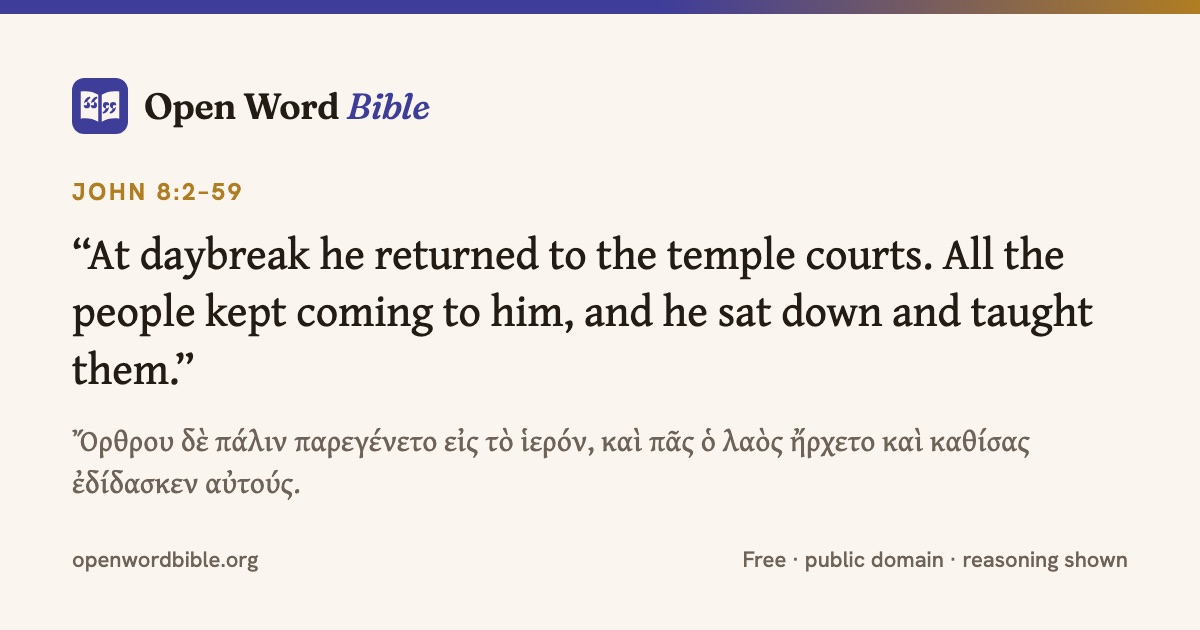
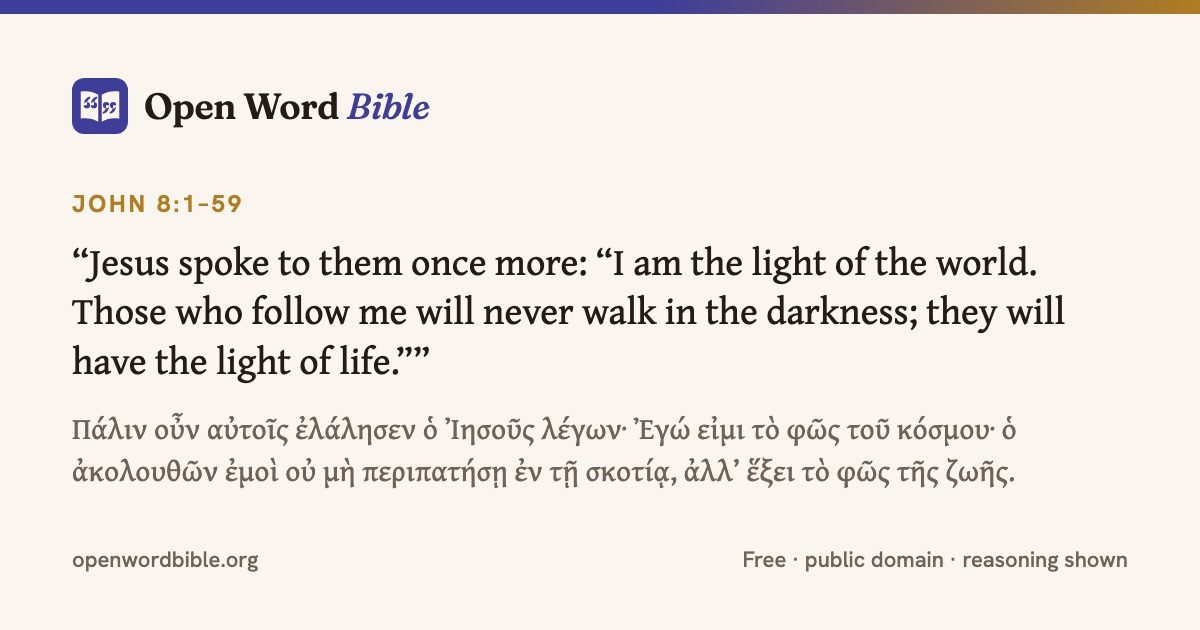
Show John 7:53-8:1 on both chapter pages; John 8 card quotes 8:12
The sentence 7:53-8:1 opens the bracketed, disputed passage about the
woman caught in adultery with "[" and the note on the manuscripts. The
build put it only on the John 7 page, so John 8 began at 8:2 with a
closing bracket and no opening one, verse 8:1 was on no John 8 page, and
John 7 and 8 were both counted incomplete ("John 7:1-53", "John 8:2-59").

A record now belongs to every chapter it touches. Chapter titles and
completeness count only the chapter's own verses, all_records counts the
sentence once, and the reader names a verse from another chapter "7:53"
or "8:1" (in the text, its link and its notes) so it never clashes with
John 8:53.

A chapter's share card, Read-page card and card alt text now quote its
first verse outside a disputed passage (DISPUTED in build_site.py), so
the John 8 card quotes 8:12. No translation text or review status changes.

Changed region(s): [[0.0617, 0.2714, 0.925, 0.6333], [0.0617, 0.6635, 0.8633, 0.7841]]

diff --git a/web/reader.js b/web/reader.js
@@ -26,18 +26,33 @@
   var SPAN = /\{\{([a-z_]+):([^{}]*)\}\}/g;
   var VERSE = /\\v (\d+) ?/;
 
-  function verseOf(id) { return id.split(".")[2]; }
-
-  // A record's verses as "12" or "12\u201313".
-  function verseRange(r) {
-    var first = verseOf(r.refs[0]), last = verseOf(r.refs[r.refs.length - 1]);
-    return first === last ? first : first + "\u2013" + last;
+  // A verse as this page names it: "12", or "7:53" for a verse of another
+  // chapter that a sentence runs into (John 7:53-8:1 is on both pages).
+  function verseOf(id) {
+    var p = id.split(".");
+    return Number(p[1]) === DATA.chapter ? p[2] : p[1] + ":" + p[2];
   }
 
-  // Split rendered text at verse markers: [[verse, text], ...].
+  function crossesChapter(r) {
+    return r.refs[0].split(".")[1] !== r.refs[r.refs.length - 1].split(".")[1];
+  }
+
+  // A record's verses as "12", "12\u201313" or "7:53\u20138:1".
+  function verseRange(r) {
+    var ends = [r.refs[0], r.refs[r.refs.length - 1]].map(function (id) {
+      return crossesChapter(r) ? id.split(".").slice(1).join(":") : verseOf(id);
+    });
+    return ends[0] === ends[1] ? ends[0] : ends[0] + "\u2013" + ends[1];
+  }
+
+  // Split rendered text at verse markers: [[verse, text], ...]. A marker
+  // gives only the verse number, so name it from the record's refs.
   function splitVerses(r, text) {
     var parts = text.split(VERSE), out = [[verseOf(r.refs[0]), parts[0].trim()]];
-    for (var i = 1; i < parts.length; i += 2) out.push([parts[i], parts[i + 1]]);
+    for (var i = 1; i < parts.length; i += 2) {
+      var id = r.refs.find(function (v) { return v.split(".")[2] === parts[i]; });
+      out.push([id ? verseOf(id) : parts[i], parts[i + 1]]);
+    }
     return out;
   }
 
@@ -231,7 +246,8 @@
     close.setAttribute("aria-label", t("close"));
     close.addEventListener("click", deselect);
     panel.appendChild(close);
-    panel.appendChild(el("h2", null, DATA.title.replace(/[\d:\u2013\s]+$/, "") + " " + DATA.chapter + ":" + verseRange(current)));
+    panel.appendChild(el("h2", null, DATA.title.replace(/[\d:\u2013\s]+$/, "") + " " +
+      (crossesChapter(current) ? "" : DATA.chapter + ":") + verseRange(current)));
 
     panel.appendChild(el("h3", null, t("greek")));
     // Interlinear: each Greek word over its gloss. Tapping one shows its
@@ -298,7 +314,7 @@
   // owns the breakpoint: the sheet is the panel when it is position: fixed.
   function narrow() { return getComputedStyle(panelEl).position === "fixed"; }
   function verseEl(v) { return document.querySelector('.verse[data-v="' + v + '"]'); }
-  function hashVerse() { var m = /^#v(\d+)$/.exec(location.hash); return m && m[1]; }
+  function hashVerse() { var m = /^#v(\d+(?::\d+)?)$/.exec(location.hash); return m && m[1]; }
 
   function sheet(open) {
     panelEl.classList.toggle("open", open);

diff --git a/scripts/build_site.py b/scripts/build_site.py
@@ -443,15 +443,16 @@ def curl_record(r):
 
 
 def load_chapter(book, chapter):
+    """A chapter's records, and the Greek words of every verse they cover. A
+    sentence that runs into the next chapter (John 7:53-8:1) belongs to both:
+    without it the next chapter would lose a verse, and John 8 would open
+    without the bracket and the note that begin the disputed passage."""
     records = []
     for path in sorted((ROOT / "content" / book).glob("*.json")):
         for r in json.loads(path.read_text(encoding="utf-8"))["records"]:
-            first = refs.parse(r["refs"][0])
-            if first.chapter == chapter:
+            if any(refs.parse(v).chapter == chapter for v in r["refs"]):
                 records.append(curl_record(r))
     records.sort(key=lambda r: refs.parse(r["refs"][0]).sort_key() + (r["id"],))
-    # A sentence can run into the next chapter (John 7:53-8:1), so load the
-    # words of every chapter the records touch.
     words = {}
     for ch in sorted({chapter} | {refs.parse(v).chapter for r in records for v in r["refs"]}):
         words.update(json.loads((ROOT / "data" / "grc" / f"{book}.{ch}.json")
@@ -464,8 +465,9 @@ def chapters():
     found = set()
     for path in (ROOT / "content").glob("*/*.json"):
         for r in json.loads(path.read_text(encoding="utf-8"))["records"]:
-            ref = refs.parse(r["refs"][0])
-            found.add((ref.book, ref.chapter))
+            for v in r["refs"]:
+                ref = refs.parse(v)
+                found.add((ref.book, ref.chapter))
     return sorted(found, key=lambda bc: refs.Ref(bc[0], bc[1], 1).sort_key())
 
 
@@ -488,10 +490,10 @@ def passages():
     the header, Read page, home page, footer and reader all list it."""
     out = []
     for b, c in chapters():
-        records, words = load_chapter(b, c)
-        verses = len({v for r in records for v in r["refs"]})
+        records = load_chapter(b, c)[0]
+        verses = len(chapter_verses(records, c))
         out.append(Passage(b, c, chapter_url(b, c), chapter_name(records, b, c), records,
-                           verses, verses == len(words)))
+                           verses, verses == verse_count(b, c)))
     return tuple(out)
 
 
@@ -530,18 +532,28 @@ def chapter_url(book, chapter):
     return f"/{book.lower()}/{chapter}/"
 
 
+def chapter_verses(records, chapter):
+    """The verses of this chapter that records cover, leaving out a verse of
+    the chapter before or after that a sentence runs into."""
+    return {v for r in records for v in r["refs"] if refs.parse(v).chapter == chapter}
+
+
+def verse_count(book, chapter):
+    """How many verses the chapter has in the Greek extract."""
+    return len(json.loads((ROOT / "data" / "grc" / f"{book}.{chapter}.json")
+                          .read_text(encoding="utf-8"))["verses"])
+
+
 def chapter_title(records, book, chapter, lang="en"):
-    verses = [refs.parse(v).verse for r in records for v in r["refs"]]
+    verses = [refs.parse(v).verse for v in chapter_verses(records, chapter)]
     return f"{BOOK_NAMES[book][lang]} {chapter}:{min(verses)}–{max(verses)}"
 
 
 def chapter_name(records, book, chapter, lang="en"):
     """What the site calls a passage: "Philippians 2" for a whole chapter,
     "John 1:1–18" for part of one. (Share cards keep chapter_title.)"""
-    total = len(json.loads((ROOT / "data" / "grc" / f"{book}.{chapter}.json")
-                           .read_text(encoding="utf-8"))["verses"])
-    verses = {v for r in records for v in r["refs"]}
-    return f"{BOOK_NAMES[book][lang]} {chapter}" if len(verses) == total else chapter_title(records, book, chapter, lang)
+    whole = len(chapter_verses(records, chapter)) == verse_count(book, chapter)
+    return f"{BOOK_NAMES[book][lang]} {chapter}" if whole else chapter_title(records, book, chapter, lang)
 
 
 def text_lang(record, lang):
@@ -616,7 +628,7 @@ def chapter_page(book, chapter, lang="en"):
 """
     return page(lang, title, body, path=chapter_url(book, chapter), current="/read/",
                 card=og_card_chapter(book, chapter),
-                card_alt=t(lang, "meta.chapter_card_alt", title=title, verse=opening_verse(records, lang)),
+                card_alt=t(lang, "meta.chapter_card_alt", title=title, verse=opening_verse(records, chapter, lang)),
                 description=t(lang, "meta.chapter_description", title=title))
 
 
@@ -650,12 +662,40 @@ def chapter_turns(book, chapter, lang="en"):
             f'{turn(prev, "prev", t(lang, "reader.prev"))}{turn(nxt, "next", t(lang, "reader.next"))}</nav>')
 
 
-def opening_verse(records, lang="en"):
-    """A passage's first verse, Balanced, at the default settings: what its
-    Read-page card and its share card quote. In English when the first
-    sentence is not yet in lang."""
-    first = records[0]
-    return plain(markup.VERSE.split(first["renderings"][text_lang(first, lang)]["B"])[0])
+# Passages whose place in the text is disputed, translated in [square
+# brackets] (docs/john-terms.md), as (first verse, last verse). A chapter's
+# cards quote the first verse outside them.
+DISPUTED = (("JHN.7.53", "JHN.8.11"),)
+
+
+def disputed(vid):
+    key = refs.parse(vid).sort_key()
+    return any(refs.parse(a).sort_key() <= key <= refs.parse(b).sort_key() for a, b in DISPUTED)
+
+
+def opening(records, chapter):
+    """(record, verse id) for the verse a chapter's cards quote: its first
+    verse outside a disputed passage, or its first verse if every one is in
+    one."""
+    first = None
+    for r in records:
+        for vid in r["refs"]:
+            if refs.parse(vid).chapter == chapter:
+                if not disputed(vid):
+                    return r, vid
+                first = first or (r, vid)
+    return first
+
+
+def opening_verse(records, chapter, lang="en"):
+    """A passage's opening verse (see opening), Balanced, at the default
+    settings: what its Read-page card and its share card quote. In English
+    when that sentence is not yet in lang."""
+    r, vid = opening(records, chapter)
+    # split keeps each marker's verse number: [text, "13", text, "14", text].
+    parts = markup.VERSE.split(r["renderings"][text_lang(r, lang)]["B"])
+    numbers = [str(refs.parse(r["refs"][0]).verse)] + parts[1::2]
+    return plain(parts[2 * numbers.index(str(refs.parse(vid).verse))].strip())
 
 
 # A quoted verse in each language's quotation marks (English curly quotes
@@ -667,10 +707,11 @@ def passage_card(book, chapter, lang="en"):
     """A passage as a card in the article-card style: its opening verse at
     the default settings, and how much of it is translated and recorded."""
     records = load_chapter(book, chapter)[0]
-    verses = sorted({refs.parse(v).verse for r in records for v in r["refs"]})
+    verses = chapter_verses(records, chapter)
     decisions = sum(len(r["decisions"]) for r in records)
     uncertain = sum(d["uncertain"] for r in records for d in r["decisions"])
-    opening = opening_verse(records, lang)
+    r0 = opening(records, chapter)[0]
+    quote = opening_verse(records, chapter, lang)
     meta = t(lang, "card.meta", verses=len(verses), sentences=len(records),
              decisions=decisions, uncertain=uncertain)
     done = sum(lang in r["renderings"] for r in records)
@@ -680,7 +721,7 @@ def passage_card(book, chapter, lang="en"):
     return (f'<li><a class="a-card p-card" href="{url(lang, chapter_url(book, chapter))}">'
             f'<span class="a-section">{BOOK_NAMES[book][lang]} &middot; {languages_label(records)}</span>'
             f'<span class="a-title">{display(chapter_name(records, book, chapter, lang))}</span>'
-            f'<span class="p-opening"{lang_attr(text_lang(records[0], lang), lang)}>{q.format(display(opening))}</span>'
+            f'<span class="p-opening"{lang_attr(text_lang(r0, lang), lang)}>{q.format(display(quote))}</span>'
             f'<span class="a-meta">{meta}</span></a></li>')
 
 
@@ -716,8 +757,13 @@ def read_page(lang="en"):
 
 
 def all_records():
-    """Every record in content/, in canonical order."""
-    return [r for b, c in chapters() for r in load_chapter(b, c)[0]]
+    """Every record in content/, in canonical order, once each (a sentence
+    across a chapter break is on both chapters' pages)."""
+    seen = {}
+    for b, c in chapters():
+        for r in load_chapter(b, c)[0]:
+            seen.setdefault(r["id"], r)
+    return list(seen.values())
 
 
 def plain(text):

diff --git a/tests/test_site.py b/tests/test_site.py
@@ -89,6 +89,31 @@ class SiteTest(unittest.TestCase):
         first = build_site.load_chapter("JHN", 1)[0][0]
         self.assertIn(build_site.plain(first["renderings"]["en"]["B"]), read)
 
+    def test_a_sentence_across_a_chapter_break_is_on_both_pages(self):
+        # John 7:53-8:1 is one sentence. It opens the bracketed, disputed
+        # passage 7:53-8:11 with "[" and the note on the manuscripts, so John
+        # 8 needs it as much as John 7 does.
+        seven, eight = self.chapter_data("jhn/7"), self.chapter_data("jhn/8")
+        self.assertEqual(seven["records"][-1]["id"], "JHN.7.53.s1")
+        first = eight["records"][0]
+        self.assertEqual(first["id"], "JHN.7.53.s1")
+        self.assertTrue(first["renderings"]["en"]["B"].startswith("["))
+        self.assertTrue(any(d["category"] == "text_variant" and d["footnote"] for d in first["decisions"]))
+        self.assertEqual(eight["title"], "John 8")
+        names = {p.chapter: (p.name, p.complete) for p in build_site.passages() if p.book == "JHN"}
+        self.assertEqual(names[7], ("John 7", True))
+        self.assertEqual(names[8], ("John 8", True))
+        # Counted once on the home page.
+        ids = [r["id"] for r in build_site.all_records()]
+        self.assertEqual(len(ids), len(set(ids)))
+
+    def test_cards_quote_the_first_verse_outside_a_disputed_passage(self):
+        records = build_site.load_chapter("JHN", 8)[0]
+        self.assertEqual(build_site.opening(records, 8)[1], "JHN.8.12")
+        self.assertIn("I am the light of the world", build_site.opening_verse(records, 8))
+        records = build_site.load_chapter("JHN", 7)[0]
+        self.assertEqual(build_site.opening(records, 7)[1], "JHN.7.1")
+
     def test_sentence_records_split_a_verse(self):
         data = self.chapter_data("php/4")
         five = [r for r in data["records"] if r["refs"] == ["PHP.4.5"]]

diff --git a/scripts/build_og.py b/scripts/build_og.py
@@ -75,11 +75,10 @@ def cards():
                                                "with its reasoning shown."}}
     for book, chapter in build_site.chapters():
         records, words = build_site.load_chapter(book, chapter)
-        first = records[0]
-        verse = first["refs"][0]
-        mine = set(first["source"]["tokens"])
+        record, verse = build_site.opening(records, chapter)
+        mine = set(record["source"]["tokens"])
         greek = " ".join(w["text"] + w["after"].strip() for w in words[verse] if w["id"] in mine)
-        english = build_site.opening_verse(records)
+        english = build_site.opening_verse(records, chapter)
         specs[build_site.og_card_chapter(book, chapter)] = {
             "kind": "passage", "eyebrow": build_site.chapter_title(records, book, chapter),
             "title": english, "greek": greek}
